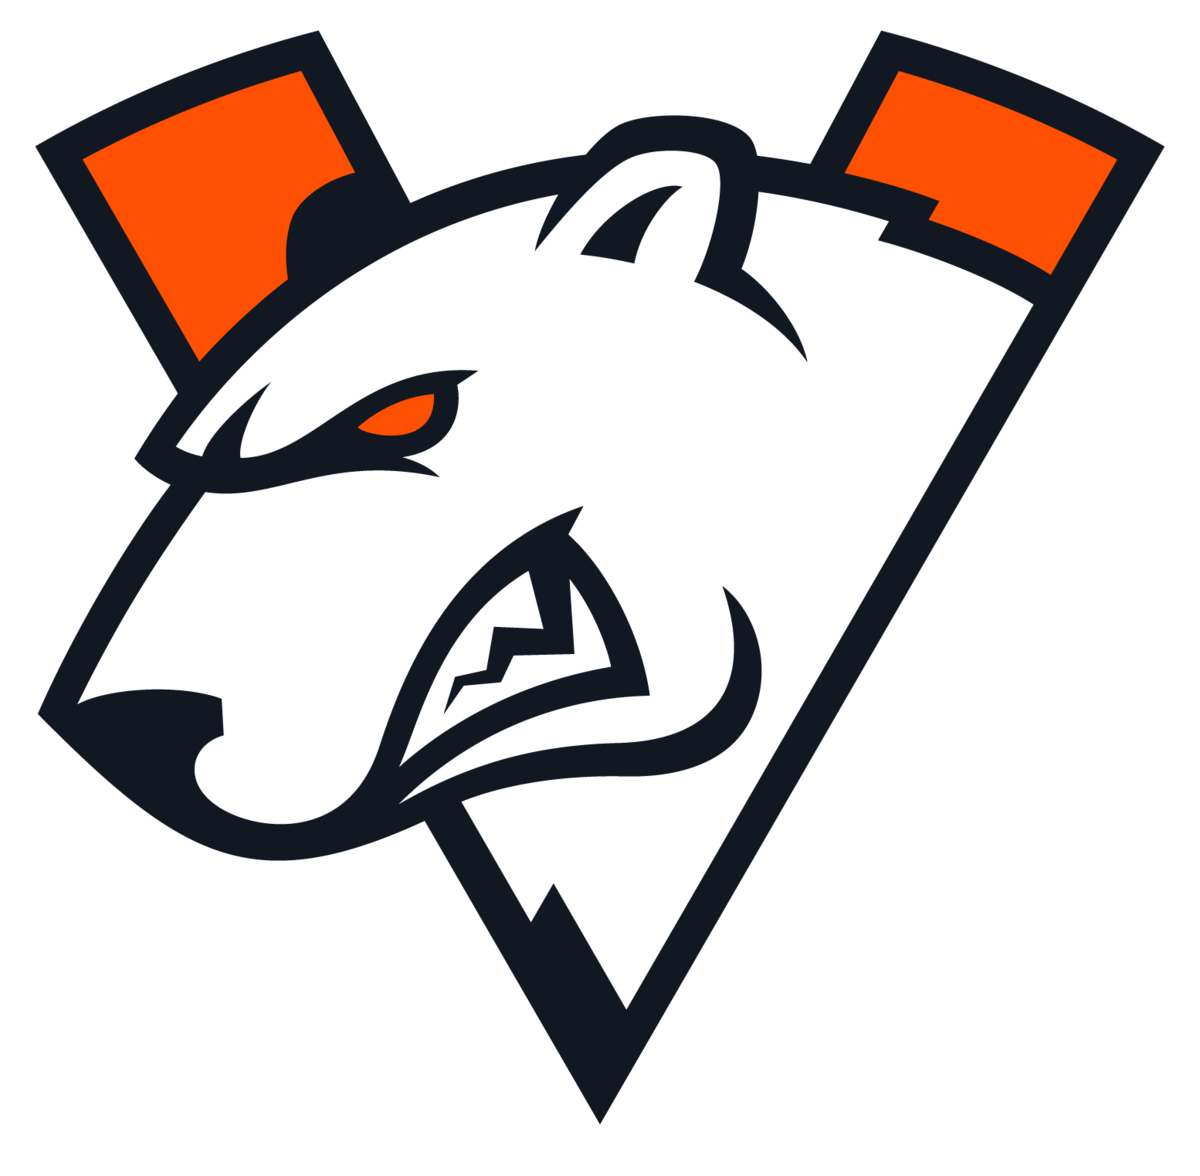
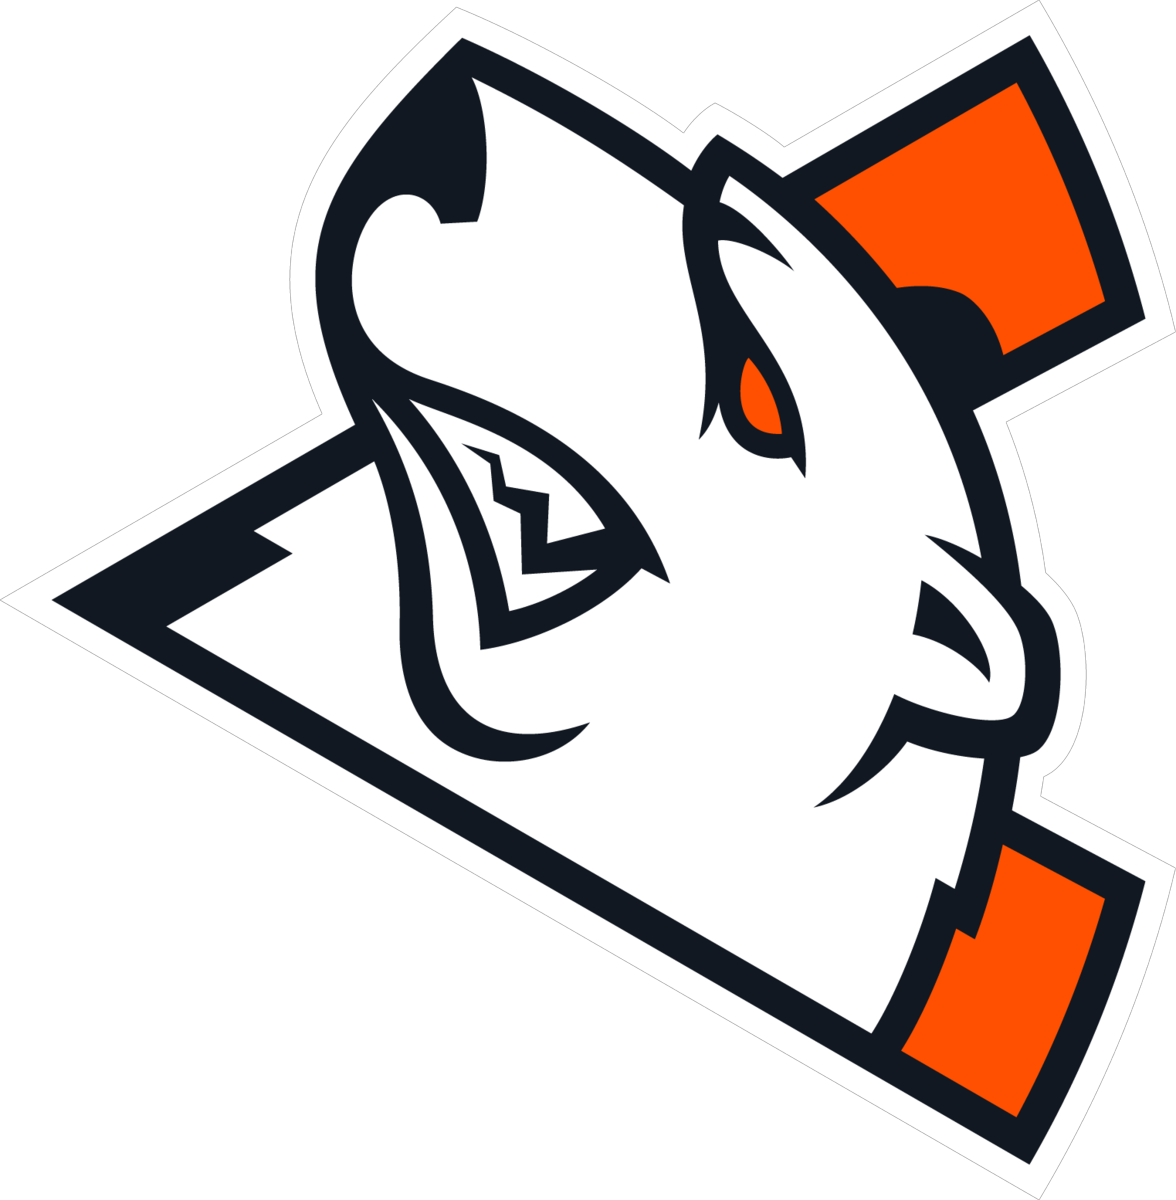
исправил недуг с поворотом спрайта(оказывается надо было саму фотку повернуть вправо и всё ок).

diff --git a/GAME/player1.py b/GAME/player1.py
@@ -7,6 +7,7 @@ pygame.init()
 display = pygame.display.set_mode((1024,768))
 clock = pygame.time.Clock()
 
+
 class Player:
     def __init__(self, x, y, width, height):
         self.x = x
@@ -16,6 +17,7 @@ class Player:
         self.image = pygame.image.load('assets/png2.png').convert_alpha()
         self.image = pygame.transform.scale(self.image, (30, 30))
         self.rect = pygame.Rect(x, y, width, height)
+        
 
     def move(self, x ,y):
         if x != 0:
@@ -41,9 +43,12 @@ class Player:
 
     def rotate(self):
         pos = pygame.mouse.get_pos()
-        angle = 720-math.atan2(pos[1]-512,pos[0]-334)*180/math.pi
+        #self.cursor_rect = pygame.Rect()
+        self.dX = pos[0] - self.rect.x + 15
+        self.dY = pos[1] - self.rect.y - 15
+        angle = (-math.atan2(self.dY, self.dX)) * 180 / 3.14159265
         self.img = pygame.transform.rotate(self.image, angle)
-        self.rect1 = self.img.get_rect(center = (self.rect.x + 15, self.rect.y - 15))
+        self.rect1 = self.img.get_rect(center=(self.rect.x + 15, self.rect.y + 15))
 
 
 class PlayerBullet:
@@ -112,7 +117,7 @@ while True:
         # if pressed_mouse[0]:
         if event.type == pygame.MOUSEBUTTONDOWN:
             if event.button == 1:
-                player_bullet.append(PlayerBullet(player.rect.x + 15, player.rect.y - 15, mouse_x, mouse_y))
+                player_bullet.append(PlayerBullet(player.rect.x + 15, player.rect.y + 15, mouse_x, mouse_y))
 
     player.rotate()
     if pressed_key[ord ('w')]:
@@ -153,9 +158,3 @@ while True:
 
     clock.tick(60)
     pygame.display.update()
-
-    a = '1'
-    b = '2'
-
-    if a not(b):
-        print(a)

diff --git a/GAME/player.py b/GAME/player.py
@@ -4,6 +4,8 @@ from size import *
 import math
 from wall import lis
 from bullet import Bullet
+import time
+
 WIDTH = disp_width
 HEIGHT = disp_height
 player_bullet = []
@@ -56,13 +58,16 @@ class Player:
 
     def rotate(self):
         self.pos = pygame.mouse.get_pos()
-        self.angle = (180 / math.pi) * -math.atan2(self.pos[1] - self.rect.y, self.pos[0] - self.rect.x)
+        self.dX = self.pos[0] - self.rect.x + 15
+        self.dY = self.pos[1] - self.rect.y - 15
+        self.angle = (-math.atan2(self.dY, self.dX)) * 180 / 3.14159265
         self.img = pygame.transform.rotate(self.image, int(self.angle))
         self.rect1 = self.img.get_rect(center = (self.rect.x + 15, self.rect.y - 15))
 
     def set_shoot(self):
         button = pygame.mouse.get_pressed()
         if button[0]:
+            time.sleep(0.05)
             player_bullet.append(Bullet(self.rect.x + 15, self.rect.y - 15, self.pos[0], self.pos[1]))
 
     def update(self):

diff --git a/GAME/bullet.py b/GAME/bullet.py
@@ -6,7 +6,7 @@ class Bullet:
         self.y = y
         self.mouse_x = mouse_x
         self.mouse_y = mouse_y
-        self.speed = 16
+        self.speed = 10
         self.angle = math.atan2(y-mouse_y, x-mouse_x)
         self.x_vel = math.cos(self.angle) * self.speed
         self.y_vel = math.sin(self.angle) * self.speed
